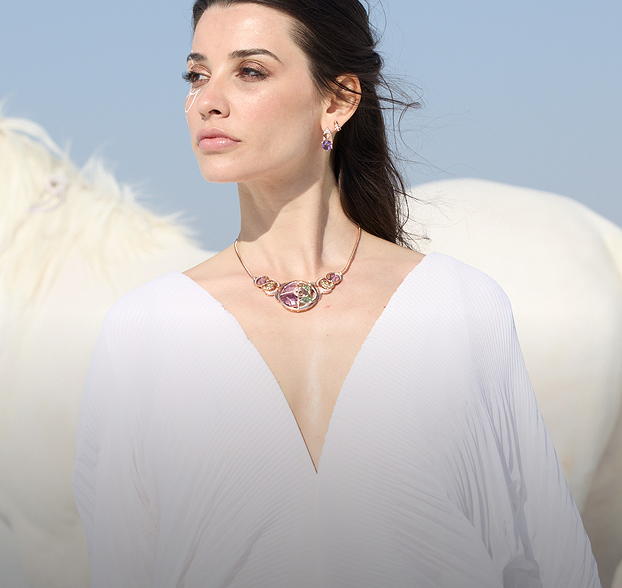
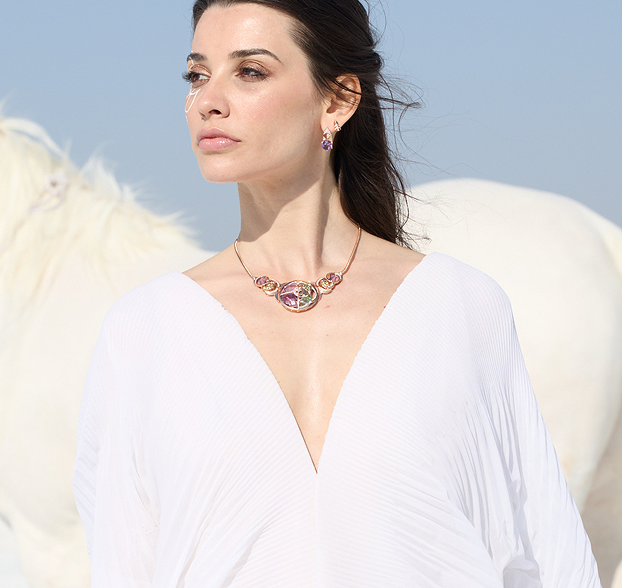
add changes

diff --git a/index.html b/index.html
@@ -1222,6 +1222,12 @@ margin: 0;
   overflow: hidden;
 }
 
+
+
+
+
+
+
 .second_section_slider_div .slider_container .slider-card {
   height: 588px;
   position: relative;
@@ -1234,8 +1240,32 @@ margin: 0;
   width: 100%;
   height: 100%;
   object-fit: cover;
+  display: block;
 }
 
+/* Black overlay */
+.second_section_slider_div .slider_container .slider-card::after {
+  content: "";
+  position: absolute;
+  bottom: 0;
+  left: 0;
+  width: 100%;
+ height: 100%; /* bottom half only */
+  /* background: linear-gradient(to bottom, transparent, rgba(0,0,0,0.6)); */
+  background-color: rgba(0,0,0,0.4);
+  pointer-events: none; /* taki click events image/card pe hi jaye */
+}
+.second_section_slider_div .slider_container .slider-card.active::after {
+  content: "";
+  position: absolute;
+  bottom: 0;
+  left: 0;
+  width: 100%;
+ height: 50%; /* bottom half only */
+  background: linear-gradient(to bottom, transparent, rgba(0,0,0,0.8));
+  /* background-color: rgba(0,0,0,0.4); */
+  pointer-events: none; /* taki click events image/card pe hi jaye */
+}
 /* Progress bar styles */
 .progress-bar-container {
   position: absolute;
@@ -1771,6 +1801,15 @@ margin: 0;
       },
       { threshold: 0.3 }
     );
+
+     cards.forEach((card, idx) => {
+      card.addEventListener("click", () => {
+        currentStartIndex = idx;
+        updateSlider();
+      });
+    });
+
+    observer.observe(section);
 
     observer.observe(section);
   });
